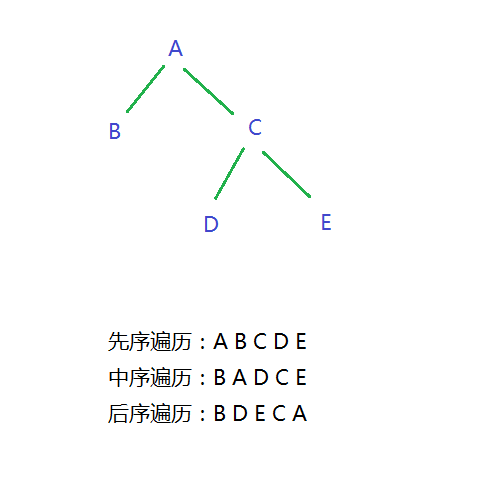
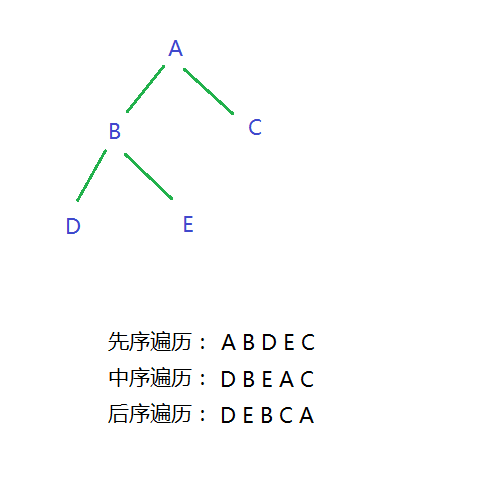
保持生成树的一致性，方便区分 前序、中序、后序、层序 的之间区别

diff --git a/00.郝斌老师数据结构视频的学习笔记和相关练习/8.链式二叉树的前序中序后序遍历(递归实现)/链式二叉树的前序中序后序遍历(递归实现).c b/00.郝斌老师数据结构视频的学习笔记和相关练习/8.链式二叉树的前序中序后序遍历(递归实现)/链式二叉树的前序中序后序遍历(递归实现).c
@@ -7,7 +7,7 @@ typedef struct TreeNode {
     struct TreeNode * rchild;       // 右孩子指针
 } TreeNode;
 
-TreeNode * createBTree();
+TreeNode *createBTree();
 void preOrderTraversal(TreeNode *T);
 void inOrderTraversal(TreeNode *T);
 void postOrderTraversal(TreeNode *T);
@@ -31,7 +31,7 @@ int main() {
 }
 
 // 创建一个链式二叉树
-TreeNode * createBTree() {
+TreeNode *createBTree() {
     TreeNode *pa = (TreeNode *)malloc(sizeof(TreeNode));
     TreeNode *pb = (TreeNode *)malloc(sizeof(TreeNode));
     TreeNode *pc = (TreeNode *)malloc(sizeof(TreeNode));
@@ -43,11 +43,11 @@ TreeNode * createBTree() {
     pa->rchild = pc;
 
     pb->data = 'B';
-    pb->lchild = pb->rchild = NULL;
+    pb->lchild = pd;
+    pb->rchild = pe;
 
     pc->data = 'C';
-    pc->lchild = pd;
-    pc->rchild = pe;
+    pc->lchild = pc->rchild = NULL;
 
     pd->data = 'D';
     pd->lchild = pd->rchild = NULL;

diff --git a/00.郝斌老师数据结构视频的学习笔记和相关练习/9.链式队列实现二叉树的层序遍历/链式队列实现二叉树的层序遍历.c b/00.郝斌老师数据结构视频的学习笔记和相关练习/9.链式队列实现二叉树的层序遍历/链式队列实现二叉树的层序遍历.c
@@ -105,7 +105,6 @@ TreeNode *createBTree() {
     TreeNode *pc = (TreeNode *)malloc(sizeof(TreeNode));
     TreeNode *pd = (TreeNode *)malloc(sizeof(TreeNode));
     TreeNode *pe = (TreeNode *)malloc(sizeof(TreeNode));
-    TreeNode *pf = (TreeNode *)malloc(sizeof(TreeNode));
 
     pa->data = 'A';
     pa->lchild = pb;
@@ -115,18 +114,14 @@ TreeNode *createBTree() {
     pb->lchild = pd;
     pb->rchild = pe;
 
+    pc->data = 'C';
+    pc->lchild = pc->rchild = NULL;
+
     pd->data = 'D';
     pd->lchild = pd->rchild = NULL;
 
     pe->data = 'E';
     pe->lchild = pe->rchild = NULL;
-
-    pc->data = 'C';
-    pc->lchild = NULL;
-    pc->rchild = pf;
-
-    pf->data = 'F';
-    pf->lchild = pf->rchild = NULL;
 
     return pa;
 }
